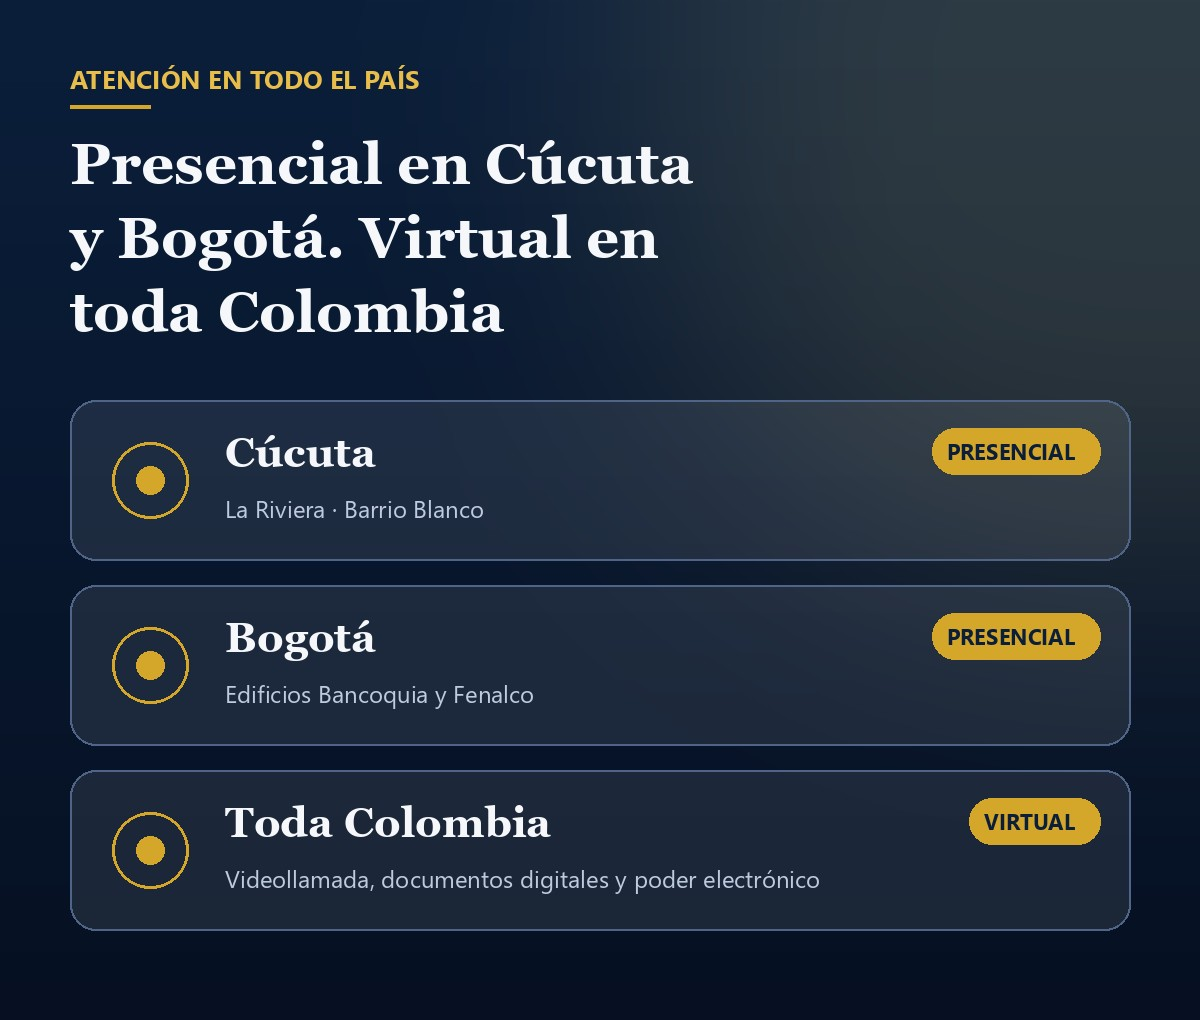
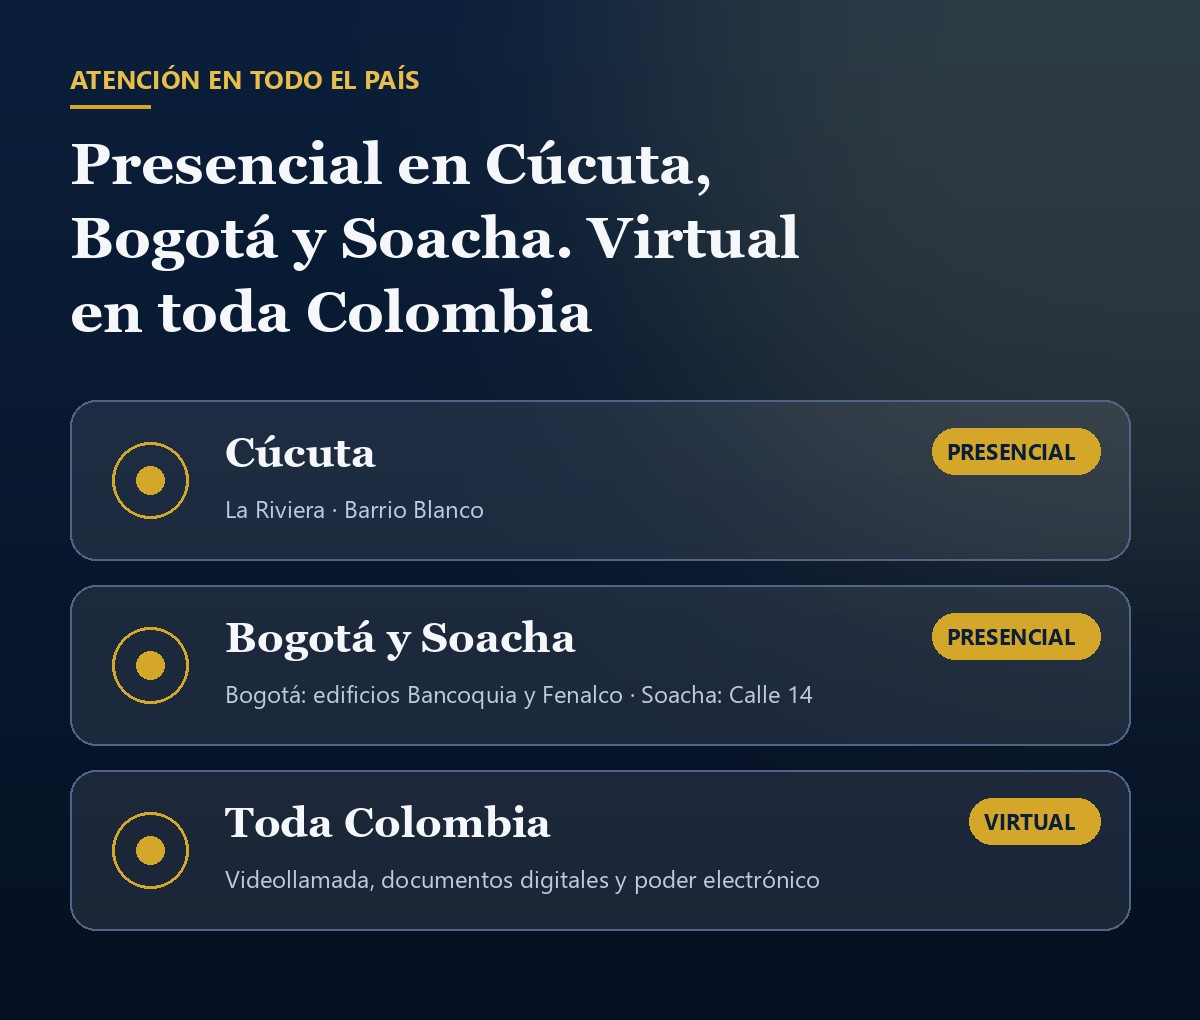
Servicios jurídicos: sede en Soacha (Calle 14 # 7-94), textos, cifra y diapositiva de atención

Changed region(s): [[0.0617, 0.2127, 0.6783, 0.3343], [0.185, 0.6686, 0.6783, 0.699], [0.3083, 0.6078, 0.4933, 0.6382]]

diff --git a/servicios-juridicos.html b/servicios-juridicos.html
@@ -4,13 +4,13 @@
 <meta charset="UTF-8">
 <meta name="viewport" content="width=device-width, initial-scale=1.0">
 <title>Servicios jurídicos en Cúcuta y Colombia | Derecho médico, administrativo y penal</title>
-<meta name="description" content="Firma de abogados y peritos con sedes en Cúcuta y Bogotá y atención virtual en todo el país: responsabilidad médica, dictámenes periciales y PCL, derecho administrativo, penal, disciplinario y ética médica, civil, familia, laboral y seguros. Solicite información.">
+<meta name="description" content="Firma de abogados y peritos con sedes en Cúcuta, Bogotá y Soacha y atención virtual en todo el país: responsabilidad médica, dictámenes periciales y PCL, derecho administrativo, penal, disciplinario y ética médica, civil, familia, laboral y seguros. Solicite información.">
 <link rel="canonical" href="https://ecosistemaverum.com/servicios-juridicos.html">
 <meta property="og:type" content="website">
 <meta property="og:site_name" content="Ecosistema Verum">
 <meta property="og:locale" content="es_CO">
 <meta property="og:title" content="Servicios jurídicos en Cúcuta y Colombia | Derecho médico, administrativo y penal">
-<meta property="og:description" content="Firma de abogados y peritos con sedes en Cúcuta y Bogotá y atención virtual en todo el país: responsabilidad médica, dictámenes periciales y PCL, derecho administrativo, penal, disciplinario y ética médica, civil, familia, laboral y seguros. Solicite información.">
+<meta property="og:description" content="Firma de abogados y peritos con sedes en Cúcuta, Bogotá y Soacha y atención virtual en todo el país: responsabilidad médica, dictámenes periciales y PCL, derecho administrativo, penal, disciplinario y ética médica, civil, familia, laboral y seguros. Solicite información.">
 <meta property="og:url" content="https://ecosistemaverum.com/servicios-juridicos.html">
 <meta property="og:image" content="https://ecosistemaverum.com/img/og-ecosistema-verum.jpg">
 <meta name="twitter:card" content="summary_large_image">
@@ -23,7 +23,7 @@
 <link rel="stylesheet" href="css/estilo.css">
 <link rel="stylesheet" href="css/tema.css">
 <script type="application/ld+json">{"@context":"https://schema.org","@type":"LegalService","@id":"https://ecosistemaverum.com/#organizacion","name":"EDM Legal Especializados S.A.S.","url":"https://ecosistemaverum.com/servicios-juridicos.html","telephone":"+573202413579","email":"edmlegal.especializados@gmail.com","address":{"@type":"PostalAddress","streetAddress":"Calle 10 AE # 4E-50, La Riviera","addressLocality":"Cúcuta","addressRegion":"Norte de Santander","addressCountry":"CO"},"areaServed":{"@type":"Country","name":"Colombia"},"openingHoursSpecification":[{"@type":"OpeningHoursSpecification","dayOfWeek":["Monday","Tuesday","Wednesday","Thursday","Friday"],"opens":"09:00","closes":"20:00"}],"knowsAbout":["Responsabilidad médica","Dictamen pericial","Pérdida de capacidad laboral","Derecho administrativo","Derecho penal"]}</script>
-<script type="application/ld+json">{"@context":"https://schema.org","@type":"FAQPage","mainEntity":[{"@type":"Question","name":"¿Qué es un dictamen pericial?","acceptedAnswer":{"@type":"Answer","text":"Es el concepto de un experto —por ejemplo, un médico— que explica al juez, con base en su conocimiento técnico, un asunto que el juez no domina. En Colombia lo regula el artículo 226 del Código General del Proceso: debe identificar al perito, explicar los métodos y las razones de sus conclusiones y apoyarse en los documentos del caso. El juez lo valora junto con las demás pruebas; no lo obliga, pero un dictamen bien fundamentado pesa mucho en la decisión."}},{"@type":"Question","name":"¿Qué es un informe de viabilidad y para qué sirve?","acceptedAnswer":{"@type":"Answer","text":"Es un análisis hecho antes de demandar. Revisa los hechos, las pruebas que existen y las que faltan, la vía más adecuada (civil, administrativa, penal, disciplinaria), los plazos de prescripción y caducidad, y qué tan fuerte o débil es el caso. Sirve para decidir con información si conviene iniciar un proceso, por dónde, qué documentos conseguir primero y qué riesgos asumir, antes de gastar tiempo y dinero. No garantiza el resultado: indica qué tan sólido es el caso hoy."}},{"@type":"Question","name":"¿Qué es un concepto de pérdida de capacidad laboral (PCL)?","acceptedAnswer":{"@type":"Answer","text":"Es la valoración de cuánto ha perdido una persona de su capacidad para trabajar por una enfermedad o un accidente. Se expresa en un porcentaje e incluye el origen (común o laboral) y la fecha de estructuración, con el Manual Único de Calificación (Decreto 1507 de 2014). De ese resultado dependen derechos como la pensión de invalidez o las indemnizaciones. Cuando la EPS, la ARL, el fondo de pensiones o la Junta de Calificación emiten su dictamen, un concepto pericial puede revisarlo y sustentar si el porcentaje, el origen o la fecha están bien."}},{"@type":"Question","name":"¿Por qué necesitaría un perito médico?","acceptedAnswer":{"@type":"Answer","text":"Porque el juez conoce el derecho, pero no la medicina. Para saber si una atención fue adecuada, si hubo un daño y si ese daño se debió a la atención, o cuánta capacidad perdió una persona, hace falta alguien que lea la historia clínica y explique lo técnico con rigor. Sin ese respaldo, el caso suele quedar en afirmaciones difíciles de probar. También sirve para controvertir un dictamen de la otra parte."}},{"@type":"Question","name":"¿Pueden llevar un caso jurídico desde otra ciudad?","acceptedAnswer":{"@type":"Answer","text":"Sí. Muchos casos se llevan sin que el cliente viaje. Las reuniones son por videollamada, los documentos se reciben y se firman en digital, y el poder puede otorgarse por mensaje de datos (Ley 2213 de 2022, art. 5). Los procesos se tramitan ante el despacho que sea competente, en cualquier ciudad, y muchas audiencias y notificaciones son virtuales. Si una actuación exige presencia, como ciertas audiencias o pruebas, se coordina con anticipación. Además hay sedes en Cúcuta y Bogotá. Los gastos de desplazamiento, si los hay, se acuerdan por escrito antes de empezar."}},{"@type":"Question","name":"¿Dónde atienden?","acceptedAnswer":{"@type":"Answer","text":"Atendemos de forma presencial en Cúcuta (Calle 10 AE # 4E-50, La Riviera) y Bogotá. Para el resto del país trabajamos de forma virtual: reuniones por videollamada, revisión de documentos digitales y actuación ante despachos de cualquier ciudad."}},{"@type":"Question","name":"¿Qué necesito para una primera asesoría?","acceptedAnswer":{"@type":"Answer","text":"Una descripción breve de lo ocurrido y los documentos que tenga a la mano (historia clínica, dictamen, resolución, notificación, contrato). Con eso le decimos si el caso tiene camino, por cuál vía y qué plazos corren."}},{"@type":"Question","name":"¿Cuánto cuesta la asesoría?","acceptedAnswer":{"@type":"Answer","text":"Depende del tipo de caso y de su complejidad. Después de revisar su información le presentamos una propuesta por escrito, antes de comprometerse a nada."}},{"@type":"Question","name":"¿Quién atiende mi caso?","acceptedAnswer":{"@type":"Answer","text":"Cada área tiene un abogado responsable. Al llenar el formulario usted elige el área y su solicitud llega directamente al profesional correspondiente."}},{"@type":"Question","name":"¿Qué es una tutela y cuándo se puede presentar?","acceptedAnswer":{"@type":"Answer","text":"Es una acción rápida para pedir a un juez que proteja un derecho fundamental —la salud, la vida, el mínimo vital, la petición— cuando una autoridad o un particular lo está vulnerando o amenazando (Constitución, art. 86, y Decreto 2591 de 1991). Procede cuando no hay otro medio de defensa eficaz o para evitar un perjuicio irremediable, por ejemplo, un tratamiento o medicamento que la EPS niega y que el paciente necesita ya. El juez debe decidir en un máximo de 10 días hábiles y no se necesita abogado para presentarla, pero una tutela bien sustentada con historia clínica y soporte médico aumenta las posibilidades de que prospere."}}]}</script>
+<script type="application/ld+json">{"@context":"https://schema.org","@type":"FAQPage","mainEntity":[{"@type":"Question","name":"¿Qué es un dictamen pericial?","acceptedAnswer":{"@type":"Answer","text":"Es el concepto de un experto —por ejemplo, un médico— que explica al juez, con base en su conocimiento técnico, un asunto que el juez no domina. En Colombia lo regula el artículo 226 del Código General del Proceso: debe identificar al perito, explicar los métodos y las razones de sus conclusiones y apoyarse en los documentos del caso. El juez lo valora junto con las demás pruebas; no lo obliga, pero un dictamen bien fundamentado pesa mucho en la decisión."}},{"@type":"Question","name":"¿Qué es un informe de viabilidad y para qué sirve?","acceptedAnswer":{"@type":"Answer","text":"Es un análisis hecho antes de demandar. Revisa los hechos, las pruebas que existen y las que faltan, la vía más adecuada (civil, administrativa, penal, disciplinaria), los plazos de prescripción y caducidad, y qué tan fuerte o débil es el caso. Sirve para decidir con información si conviene iniciar un proceso, por dónde, qué documentos conseguir primero y qué riesgos asumir, antes de gastar tiempo y dinero. No garantiza el resultado: indica qué tan sólido es el caso hoy."}},{"@type":"Question","name":"¿Qué es un concepto de pérdida de capacidad laboral (PCL)?","acceptedAnswer":{"@type":"Answer","text":"Es la valoración de cuánto ha perdido una persona de su capacidad para trabajar por una enfermedad o un accidente. Se expresa en un porcentaje e incluye el origen (común o laboral) y la fecha de estructuración, con el Manual Único de Calificación (Decreto 1507 de 2014). De ese resultado dependen derechos como la pensión de invalidez o las indemnizaciones. Cuando la EPS, la ARL, el fondo de pensiones o la Junta de Calificación emiten su dictamen, un concepto pericial puede revisarlo y sustentar si el porcentaje, el origen o la fecha están bien."}},{"@type":"Question","name":"¿Por qué necesitaría un perito médico?","acceptedAnswer":{"@type":"Answer","text":"Porque el juez conoce el derecho, pero no la medicina. Para saber si una atención fue adecuada, si hubo un daño y si ese daño se debió a la atención, o cuánta capacidad perdió una persona, hace falta alguien que lea la historia clínica y explique lo técnico con rigor. Sin ese respaldo, el caso suele quedar en afirmaciones difíciles de probar. También sirve para controvertir un dictamen de la otra parte."}},{"@type":"Question","name":"¿Pueden llevar un caso jurídico desde otra ciudad?","acceptedAnswer":{"@type":"Answer","text":"Sí. Muchos casos se llevan sin que el cliente viaje. Las reuniones son por videollamada, los documentos se reciben y se firman en digital, y el poder puede otorgarse por mensaje de datos (Ley 2213 de 2022, art. 5). Los procesos se tramitan ante el despacho que sea competente, en cualquier ciudad, y muchas audiencias y notificaciones son virtuales. Si una actuación exige presencia, como ciertas audiencias o pruebas, se coordina con anticipación. Además hay sedes en Cúcuta, Bogotá y Soacha. Los gastos de desplazamiento, si los hay, se acuerdan por escrito antes de empezar."}},{"@type":"Question","name":"¿Dónde atienden?","acceptedAnswer":{"@type":"Answer","text":"Atendemos de forma presencial en Cúcuta (Calle 10 AE # 4E-50, La Riviera), Bogotá y Soacha. Para el resto del país trabajamos de forma virtual: reuniones por videollamada, revisión de documentos digitales y actuación ante despachos de cualquier ciudad."}},{"@type":"Question","name":"¿Qué necesito para una primera asesoría?","acceptedAnswer":{"@type":"Answer","text":"Una descripción breve de lo ocurrido y los documentos que tenga a la mano (historia clínica, dictamen, resolución, notificación, contrato). Con eso le decimos si el caso tiene camino, por cuál vía y qué plazos corren."}},{"@type":"Question","name":"¿Cuánto cuesta la asesoría?","acceptedAnswer":{"@type":"Answer","text":"Depende del tipo de caso y de su complejidad. Después de revisar su información le presentamos una propuesta por escrito, antes de comprometerse a nada."}},{"@type":"Question","name":"¿Quién atiende mi caso?","acceptedAnswer":{"@type":"Answer","text":"Cada área tiene un abogado responsable. Al llenar el formulario usted elige el área y su solicitud llega directamente al profesional correspondiente."}},{"@type":"Question","name":"¿Qué es una tutela y cuándo se puede presentar?","acceptedAnswer":{"@type":"Answer","text":"Es una acción rápida para pedir a un juez que proteja un derecho fundamental —la salud, la vida, el mínimo vital, la petición— cuando una autoridad o un particular lo está vulnerando o amenazando (Constitución, art. 86, y Decreto 2591 de 1991). Procede cuando no hay otro medio de defensa eficaz o para evitar un perjuicio irremediable, por ejemplo, un tratamiento o medicamento que la EPS niega y que el paciente necesita ya. El juez debe decidir en un máximo de 10 días hábiles y no se necesita abogado para presentarla, pero una tutela bien sustentada con historia clínica y soporte médico aumenta las posibilidades de que prospere."}}]}</script>
 </head>
 <body class="pagina-texto">
 <svg xmlns="http://www.w3.org/2000/svg" style="display:none">
@@ -321,16 +321,16 @@
 <section class="portada portada-servicios">
 <div class="contenedor hero-doble">
     <div class="hero-texto-bloque">
-        <span class="portada-etiqueta">Servicios jurídicos · Cúcuta, Bogotá y todo el país</span>
+        <span class="portada-etiqueta">Servicios jurídicos · Cúcuta, Bogotá, Soacha y todo el país</span>
         <h1>Abogados y peritos con <em>doble formación</em> en medicina y derecho</h1>
-        <p>Una firma boutique con atención presencial en Cúcuta y Bogotá, y virtual en toda Colombia: responsabilidad médica, dictámenes periciales y PCL, derecho administrativo, penal, disciplinario y ética médica, civil, familia, laboral y seguros.</p>
+        <p>Una firma boutique con atención presencial en Cúcuta, Bogotá y Soacha, y virtual en toda Colombia: responsabilidad médica, dictámenes periciales y PCL, derecho administrativo, penal, disciplinario y ética médica, civil, familia, laboral y seguros.</p>
         <div class="botones" style="margin-top:26px">
             <a href="#solicitar" class="boton boton-oro">Solicitar información</a>
             <a href="https://wa.me/573202413579?text=Hola%2C%20quiero%20una%20asesor%C3%ADa%20jur%C3%ADdica" class="boton boton-linea" target="_blank" rel="noopener">WhatsApp 320 241 3579</a>
         </div>
         <ul class="cifras-hero">
             <li><strong><span data-contador="20" data-sufijo="+">20+</span></strong><span>años de ejercicio</span></li>
-            <li><strong><span data-contador="2">2</span></strong><span>ciudades con oficina</span></li>
+            <li><strong><span data-contador="3">3</span></strong><span>ciudades con oficina</span></li>
             <li><strong><span data-contador="8">8</span></strong><span>profesionales en el equipo</span></li>
         </ul>
     </div>
@@ -339,7 +339,7 @@
             <figure class="slide activo"><img src="img/slides/equipo.jpg" alt="El equipo de EDM Legal Especializados: ocho profesionales de la medicina, el derecho y la psicología" width="1200" height="1020"></figure>
             <figure class="slide"><img src="img/slides/expediente.jpg" alt="VerumIA organiza el expediente, la cronología y las pruebas de cada caso" loading="lazy" width="1200" height="1020"></figure>
             <figure class="slide"><img src="img/slides/pasos.jpg" alt="Cómo trabajamos: consulta, informe de viabilidad y proceso o dictamen" loading="lazy" width="1200" height="1020"></figure>
-            <figure class="slide"><img src="img/slides/pais.jpg" alt="Atención presencial en Cúcuta y Bogotá, y virtual en toda Colombia" loading="lazy" width="1200" height="1020"></figure>
+            <figure class="slide"><img src="img/slides/pais.jpg" alt="Atención presencial en Cúcuta, Bogotá y Soacha, y virtual en toda Colombia" loading="lazy" width="1200" height="1020"></figure>
         </div>
         <div class="slider-puntos"><button type="button" aria-label="Diapositiva 1" class="activo"></button><button type="button" aria-label="Diapositiva 2"></button><button type="button" aria-label="Diapositiva 3"></button><button type="button" aria-label="Diapositiva 4"></button></div>
     </div>
@@ -565,6 +565,7 @@
                 <li><strong>Cúcuta, área penal:</strong> Edificio Vitta, Avenida 1 # 17-73, Barrio Blanco, piso 11.</li>
                 <li><strong>Bogotá:</strong> Calle 12 B No. 8-39, Edificio Bancoquia, oficina 405.</li>
                 <li><strong>Bogotá:</strong> Calle 12B # 6-82, Edificio Fenalco, oficina 705.</li>
+                <li><strong>Soacha:</strong> Calle 14 # 7-94.</li>
                 <li><strong>Virtual:</strong> todo el país. Lunes a viernes, 9:00 a 20:00.</li>
                 <li><strong>WhatsApp:</strong> <a href="https://wa.me/573202413579" target="_blank" rel="noopener">+57 320 241 3579</a></li>
                 <li><strong>Correo:</strong> <a href="mailto:edmlegal.especializados@gmail.com">edmlegal.especializados@gmail.com</a></li>
@@ -583,8 +584,8 @@
     <details class="pregunta"><summary>¿Qué es un informe de viabilidad y para qué sirve?</summary><p>Es un análisis hecho antes de demandar. Revisa los hechos, las pruebas que existen y las que faltan, la vía más adecuada (civil, administrativa, penal, disciplinaria), los plazos de prescripción y caducidad, y qué tan fuerte o débil es el caso. Sirve para decidir con información si conviene iniciar un proceso, por dónde, qué documentos conseguir primero y qué riesgos asumir, antes de gastar tiempo y dinero. No garantiza el resultado: indica qué tan sólido es el caso hoy.</p></details>
     <details class="pregunta"><summary>¿Qué es un concepto de pérdida de capacidad laboral (PCL)?</summary><p>Es la valoración de cuánto ha perdido una persona de su capacidad para trabajar por una enfermedad o un accidente. Se expresa en un porcentaje e incluye el origen (común o laboral) y la fecha de estructuración, con el Manual Único de Calificación (Decreto 1507 de 2014). De ese resultado dependen derechos como la pensión de invalidez o las indemnizaciones. Cuando la EPS, la ARL, el fondo de pensiones o la Junta de Calificación emiten su dictamen, un concepto pericial puede revisarlo y sustentar si el porcentaje, el origen o la fecha están bien.</p></details>
     <details class="pregunta"><summary>¿Por qué necesitaría un perito médico?</summary><p>Porque el juez conoce el derecho, pero no la medicina. Para saber si una atención fue adecuada, si hubo un daño y si ese daño se debió a la atención, o cuánta capacidad perdió una persona, hace falta alguien que lea la historia clínica y explique lo técnico con rigor. Sin ese respaldo, el caso suele quedar en afirmaciones difíciles de probar. También sirve para controvertir un dictamen de la otra parte.</p></details>
-    <details class="pregunta"><summary>¿Pueden llevar un caso jurídico desde otra ciudad?</summary><p>Sí. Muchos casos se llevan sin que el cliente viaje. Las reuniones son por videollamada, los documentos se reciben y se firman en digital, y el poder puede otorgarse por mensaje de datos (Ley 2213 de 2022, art. 5). Los procesos se tramitan ante el despacho que sea competente, en cualquier ciudad, y muchas audiencias y notificaciones son virtuales. Si una actuación exige presencia, como ciertas audiencias o pruebas, se coordina con anticipación. Además hay sedes en Cúcuta y Bogotá. Los gastos de desplazamiento, si los hay, se acuerdan por escrito antes de empezar.</p></details>
-    <details class="pregunta"><summary>¿Dónde atienden?</summary><p>Atendemos de forma presencial en Cúcuta (Calle 10 AE # 4E-50, La Riviera) y Bogotá. Para el resto del país trabajamos de forma virtual: reuniones por videollamada, revisión de documentos digitales y actuación ante despachos de cualquier ciudad.</p></details>
+    <details class="pregunta"><summary>¿Pueden llevar un caso jurídico desde otra ciudad?</summary><p>Sí. Muchos casos se llevan sin que el cliente viaje. Las reuniones son por videollamada, los documentos se reciben y se firman en digital, y el poder puede otorgarse por mensaje de datos (Ley 2213 de 2022, art. 5). Los procesos se tramitan ante el despacho que sea competente, en cualquier ciudad, y muchas audiencias y notificaciones son virtuales. Si una actuación exige presencia, como ciertas audiencias o pruebas, se coordina con anticipación. Además hay sedes en Cúcuta, Bogotá y Soacha. Los gastos de desplazamiento, si los hay, se acuerdan por escrito antes de empezar.</p></details>
+    <details class="pregunta"><summary>¿Dónde atienden?</summary><p>Atendemos de forma presencial en Cúcuta (Calle 10 AE # 4E-50, La Riviera), Bogotá y Soacha. Para el resto del país trabajamos de forma virtual: reuniones por videollamada, revisión de documentos digitales y actuación ante despachos de cualquier ciudad.</p></details>
     <details class="pregunta"><summary>¿Qué necesito para una primera asesoría?</summary><p>Una descripción breve de lo ocurrido y los documentos que tenga a la mano (historia clínica, dictamen, resolución, notificación, contrato). Con eso le decimos si el caso tiene camino, por cuál vía y qué plazos corren.</p></details>
     <details class="pregunta"><summary>¿Cuánto cuesta la asesoría?</summary><p>Depende del tipo de caso y de su complejidad. Después de revisar su información le presentamos una propuesta por escrito, antes de comprometerse a nada.</p></details>
     <details class="pregunta"><summary>¿Quién atiende mi caso?</summary><p>Cada área tiene un abogado responsable. Al llenar el formulario usted elige el área y su solicitud llega directamente al profesional correspondiente.</p></details>
